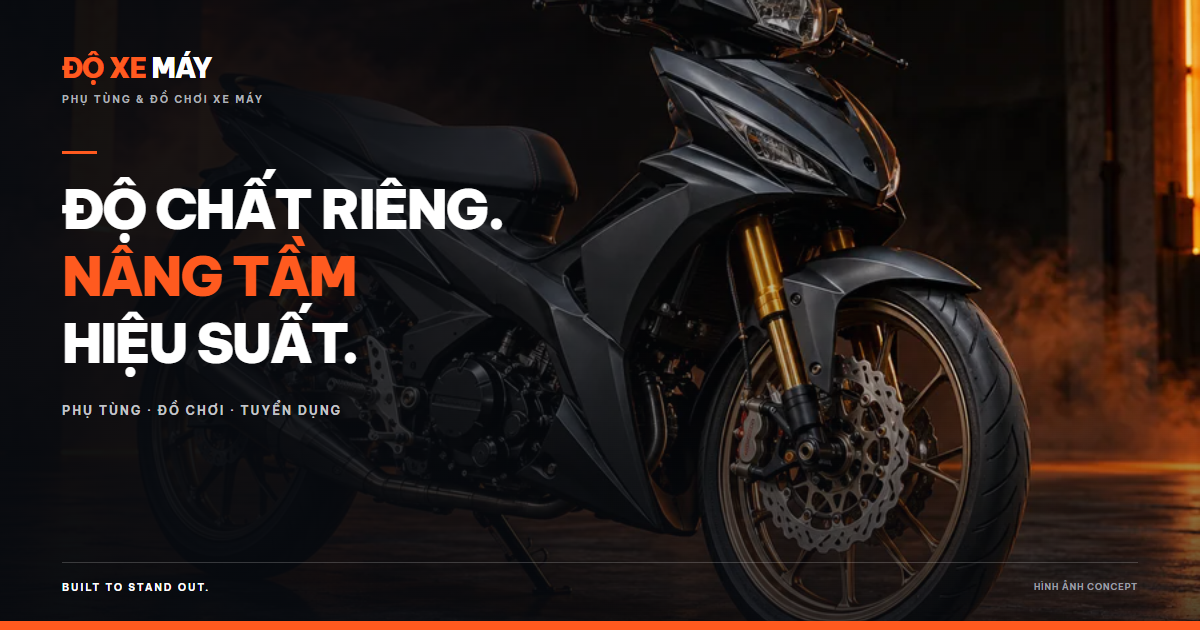
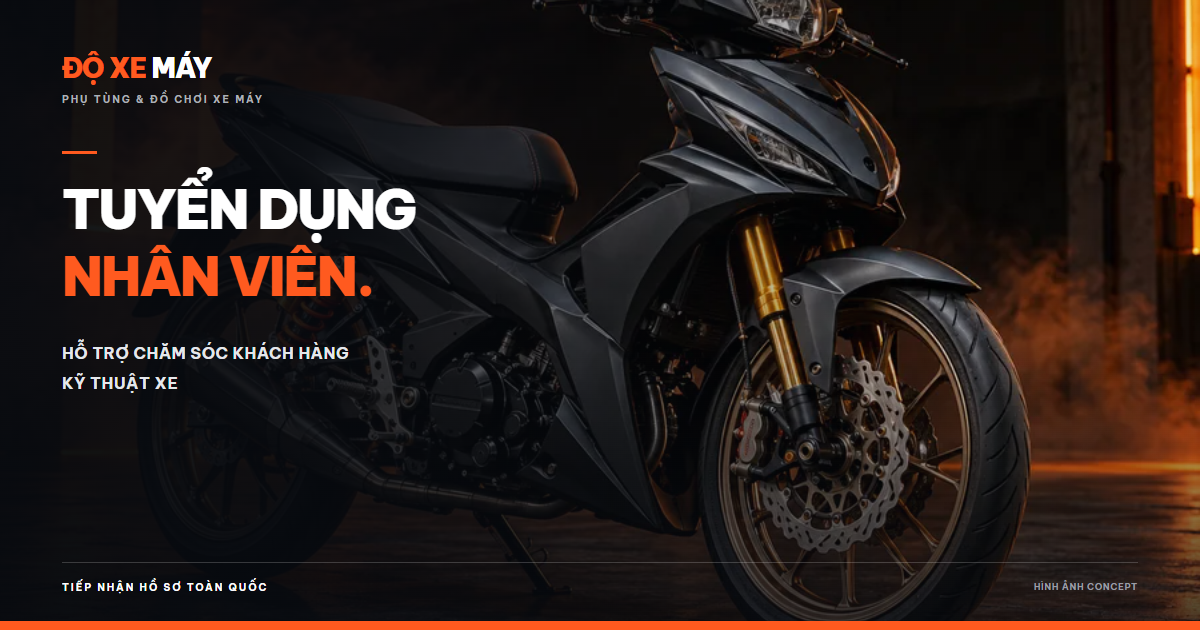
Update recruitment SEO title and versioned social preview

Changed region(s): [[0.0308, 0.2714, 0.4317, 0.6635], [0.0617, 0.9048, 0.2158, 0.9349]]

diff --git a/index.html b/index.html
@@ -6,7 +6,7 @@
     <meta name="theme-color" content="#0b0d10" />
     <meta
       name="description"
-      content="Độ Xe Máy — Phụ tùng, đồ chơi xe máy, tư vấn nâng cấp và tuyển dụng toàn quốc. Khám phá phong cách xe của bạn."
+      content="Độ Xe Máy tuyển dụng toàn quốc: hỗ trợ chăm sóc khách hàng và kỹ thuật xe. Chọn tỉnh/thành và gửi hồ sơ trực tuyến."
     />
     <link rel="icon" type="image/svg+xml" href="/favicon.svg" />
     <link rel="canonical" href="__SITE_URL__/" />
@@ -14,31 +14,31 @@
     <meta property="og:type" content="website" />
     <meta property="og:locale" content="vi_VN" />
     <meta property="og:site_name" content="Độ Xe Máy" />
-    <meta property="og:title" content="Độ Xe Máy | Độ chất riêng. Nâng tầm hiệu suất." />
+    <meta property="og:title" content="Độ Xe Máy | Tuyển dụng nhân viên" />
     <meta
       property="og:description"
-      content="Phụ tùng & đồ chơi xe máy, tư vấn nâng cấp và cơ hội nghề nghiệp theo khu vực. Khám phá chất xe của bạn cùng Độ Xe Máy."
+      content="Tuyển dụng toàn quốc: hỗ trợ chăm sóc khách hàng và kỹ thuật xe. Chọn tỉnh/thành và gửi hồ sơ trực tuyến."
     />
     <meta property="og:url" content="__SITE_URL__/" />
-    <meta property="og:image" content="__SITE_URL__/images/social-preview.png" />
-    <meta property="og:image:secure_url" content="__SITE_URL__/images/social-preview.png" />
-    <meta property="og:image:type" content="image/png" />
+    <meta property="og:image" content="__SITE_URL__/images/social-recruitment-v2.jpg" />
+    <meta property="og:image:secure_url" content="__SITE_URL__/images/social-recruitment-v2.jpg" />
+    <meta property="og:image:type" content="image/jpeg" />
     <meta property="og:image:width" content="1200" />
     <meta property="og:image:height" content="630" />
     <meta
       property="og:image:alt"
-      content="Độ Xe Máy — Độ chất riêng, nâng tầm hiệu suất. Xe máy trong garage ánh sáng cam."
+      content="Độ Xe Máy — Tuyển dụng hỗ trợ chăm sóc khách hàng và kỹ thuật xe trên toàn quốc."
     />
     <meta name="twitter:card" content="summary_large_image" />
-    <meta name="twitter:title" content="Độ Xe Máy | Độ chất riêng. Nâng tầm hiệu suất." />
+    <meta name="twitter:title" content="Độ Xe Máy | Tuyển dụng nhân viên" />
     <meta
       name="twitter:description"
-      content="Khám phá xe máy, ô tô, phụ tùng và cơ hội nghề nghiệp theo khu vực."
+      content="Tuyển hỗ trợ chăm sóc khách hàng và kỹ thuật xe trên toàn quốc. Gửi hồ sơ trực tuyến."
     />
-    <meta name="twitter:image" content="__SITE_URL__/images/social-preview.png" />
-    <meta name="twitter:image:alt" content="Độ Xe Máy — Độ chất riêng, nâng tầm hiệu suất." />
+    <meta name="twitter:image" content="__SITE_URL__/images/social-recruitment-v2.jpg" />
+    <meta name="twitter:image:alt" content="Độ Xe Máy — Tuyển dụng nhân viên." />
     <link rel="preload" as="image" href="/images/garage-hero.webp" />
-    <title>Độ Xe Máy | Độ chất riêng. Nâng tầm hiệu suất.</title>
+    <title>Độ Xe Máy | Tuyển dụng nhân viên</title>
   </head>
   <body>
     <div id="root"></div>
